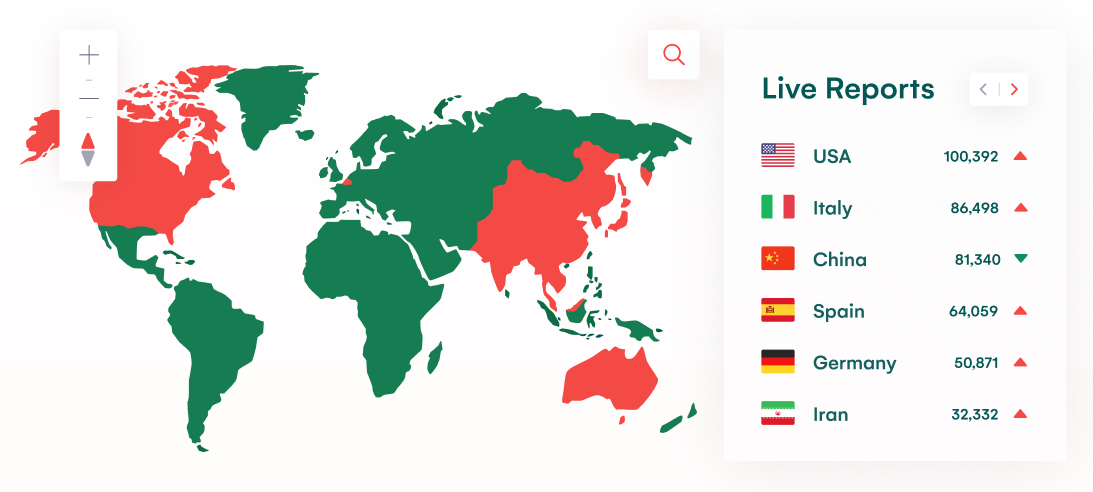
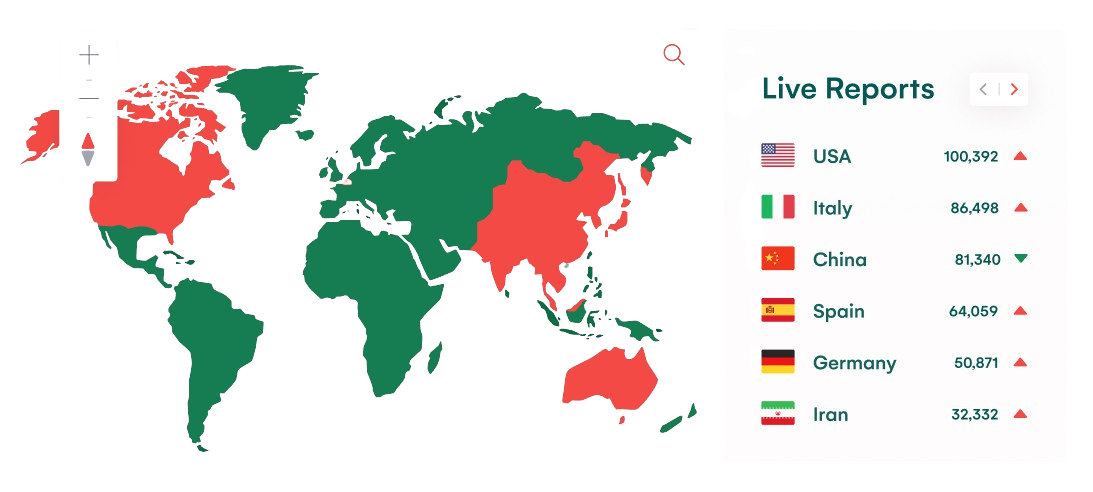
minor changes

diff --git a/hw-4-covid-19-landing-page/index.html b/hw-4-covid-19-landing-page/index.html
@@ -117,7 +117,7 @@
         </section>
 
         <section class="live section">
-            <img class="live__map" src="images/image_9.svg" alt="">
+            <img class="live__map" src="images/image_9.png" alt="">
         </section>
     </main>
     <footer class="footer">
